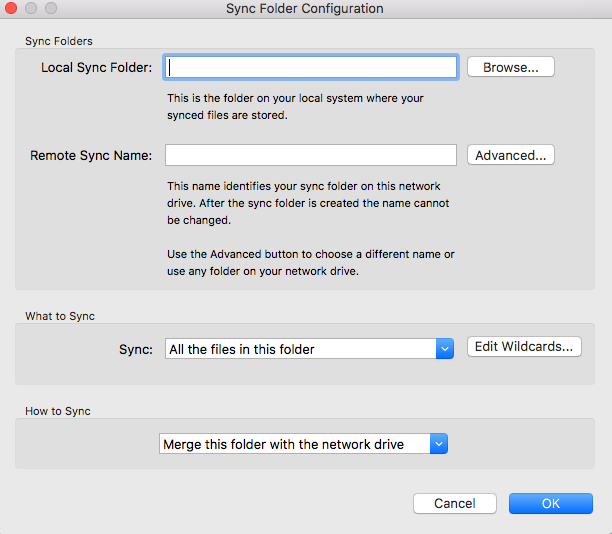
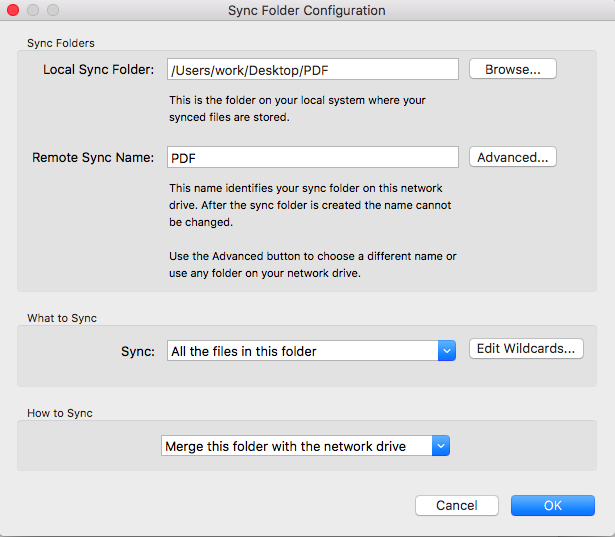
NetworkDrive

diff --git a/src/010_TheBackupVault.rst b/src/010_TheBackupVault.rst
@@ -1,3 +1,88 @@
 ================
 The Backup Vault
 ================
+The Backup Vault compresses and stores your files for recovery in the event of data loss. These files cannot be accessed in full on demand; only through the "Restore Files" section. Data compression allows large amounts of information to be stored for a low cost.
+
+The first backup that is run for the account is the only full backup done for the Backup Vault. Any subsequent backups will only upload changed portions of files or newly added files within the backup set.
+
+To learn more about how the Backup Vault works, see ____
+
+DEFINE BACKUP JOB
+
+Backup Vault
+============
+.. image:: _static/010/b1.png
+
+**Create a new Backup Job:** Name and create new backup jobs here. By default, a job titled "My Backup" will already exist.
+
+**Import a Backup Job:** Import existing backup job configurations here.
+
+**Delete Backup Vault:** Delete the backup vault and all the jobs within it.
+
+Backup Job
+==========
+You can configure the settings for each Backup Job by clicking on its dropdown arrow.
+
+Here, the example Backup Job is named "My Backup".
+
+.. image:: _static/010/b2.png
+
+**Allow this backup job to run:** Temporarily enable/disable a backup job.
+
+**Remove Backup Job:** Remove a backup job. This will not delete the files in online storage, it will only stop updating changed or new files in the folder.
+
+**Export Backup Job Configuration:** Exports Backup Job settings.
+
+Schedule
+--------
+.. image:: _static/010/b3.png
+
+**Automatically backup my files every:** Choose how often and what time to run the backup.
+
+**When the scheduled backup time is missed:** Choose from ASAP and At Next Scheduled Time.
+
+What to Backup
+--------------
+.. image:: _static/010/b4.png
+
+**Add or Change Backup Folders:** Add or change backup folders or files.
+
+**Remove Selected Folder** Removes folder selected above.
+
+.. image:: _static/010/b5.png
+
+Folders
+^^^^^^^
+Select folders to back up. If you can't find the folder you're looking for, click "All Folders".
+
+A black check mark indicates the folder is being backed up.
+
+A grey check mark indicates a sub-folder in the folder is being backed up.
+
+Backup Options
+^^^^^^^^^^^^^^
+**Do not backup this folder:** Disables backup for this folder.
+
+**Backup:** Pick between: all the files in this folder (all files), only certain types of files (by file ending), all files except certain types, or only files I select in this folder.
+
+Check "Backup files in sub-folders" to include the contents of folders include in the selected folders.
+
+Select "Advanced Options" to include or exclude files based on wildcards. You can also change the path where Jungle Disk will save the directory's backups.
+
+Selected Files
+^^^^^^^^^^^^^^
+Select or deselect files in the selected folder to backup.
+
+Backup Options
+--------------
+.. image:: _static/010/b6.png
+
+**Ignore timezone shifts when detecting changed files:** If you have users located in another time zone, checking the option “Ignore timezone shifts when detecting changed files” will ensure that you are not creating and storing unnecessary previous versions.
+
+Backup Retention
+^^^^^^^^^^^^^^^^
+Choose how often to clear out old data. This includes previous versions and deleted files. If unchecked, your old backups will be kept indefinitely. Keeping all your old backups may increase charges.
+
+Backup Reporting
+^^^^^^^^^^^^^^^^
+This feature allows your administrator to view summaries of backup jobs, and any errors that may occur during them, via email, RSS, or on the web. "Report backup summaries and detailed logs" is recommended, as it provides more information in case of a backup error.

diff --git a/src/011_HowDoesTheBackupProcessWork.rst b/src/011_HowDoesTheBackupProcessWork.rst
@@ -6,7 +6,7 @@ Simple Backup
 =============
 Simple backup works in a standard way, but has a unique way of updating itself. When a Simple Backup Job is run, the files identified in the backup are analyzed and their Modified Dates are compared to the Modified Dates of the previous backup. Files that have a more recent Modified Date are treated as “updated”, so they are queued to be uploaded. When one of these files is uploaded, a full copy of the old file is treated as a previous version, which means it then becomes subject to your Retention Policy.
 
-Unlike the Backup Vault, Simple Backup doesn't use data-deduplication. It relies on the file path to determine which files to upload. So, if you move a file from one system to another, it may be uploaded again if the file path changes from one system to the other. It is highly likely that the new system will not have the same directories as the old system. To avoid data from unnecessarily re-‐uploading, the user would need to adjust the file path structure within the “backups” folder on the network drive, and make it match the current system.
+Unlike the Backup Vault, Simple Backup doesn't use data de-duplication. It relies on the file path to determine which files to upload. So, if you move a file from one system to another, it may be uploaded again if the file path changes from one system to the other. It is highly likely that the new system will not have the same directories as the old system. To avoid data from unnecessarily re-‐uploading, the user would need to adjust the file path structure within the “backups” folder on the network drive, and make it match the current system.
 
 Even though the Simple Backup data is visible in Web Access and your Network Drive, you should not make any modifications. This is because modifying the data could produce unwanted results with what is or isn’t backed up.
 

diff --git a/src/006_BackupSolutions.rst b/src/006_BackupSolutions.rst
@@ -20,12 +20,12 @@ Sync folders are intended to be used by a single user and offer the ability to w
 
 Backup Vault
 ============
-The Backup Vault compresses and stores your files. Due to the way these files are packaged, data backed up to the Backup Vault is only available through the software’s Restore Files section. They cannot be viewed through web access when stored in the backup vault. Since the backup schedule is not instant, your information won't be affected by a virus.
+The Backup Vault compresses and stores your files in the event of data loss. Due to the way these files are packaged, data backed up to the Backup Vault is only available through the software’s Restore Files section. They cannot be viewed through web access when stored in the backup vault. Since the backup schedule is not instant, your information won't be affected by a virus.
 
 .. insert comparison chart
 can access complete files online
 safe from viruses
-limit accesss among employees etc
+limit access among employees etc
 can many ppl work on file
 is it editable/view only
 limitations, ex: sync folders is 100k files or 10 gb
@@ -34,7 +34,7 @@ does it automatically update files (net drive yes. simple no.)
 Backup Vault
 
 File Compression
-Data deduplication
+Data de-duplication
 No file size limit
 
 Network Drive

diff --git a/src/015_SyncFolders.rst b/src/015_SyncFolders.rst
@@ -19,23 +19,15 @@ Sync Folder Summary:
 
 Sync Folder Creation
 ====================
-
-.. figure:: _static/015/sf.png
-Windows.
-
-.. figure:: _static/015/sf2.png
-Windows.
-
 .. figure:: _static/015/sf3.png
 Mac.
 
 .. figure:: _static/015/sf4.png
 Mac.
 
-The local sync folder option will set the local folder from the computer that syncs with the network drive. You can either enter a path in manually, or use the Browse option to select the local folder.
+**Local Sync Folder:** The folder where your sync folders are stored locally. You can either enter a path in manually, or use the Browse option to select the local folder.
 
-The Advanced option will allow you to name the sync folder differently than how it may appear locally. You can also
-select the folder to sync up with an existing folder on the network drive.
+**Remote Sync Name:** By default, the name of both folders will match. Click "Advanced..." to change the name, or change a  place to store the folder on the network drive. The name cannot be changed once created. 
 
 What to Sync
 ^^^^^^^^^^^^

diff --git a/src/009_SimpleBackup.rst b/src/009_SimpleBackup.rst
@@ -104,4 +104,8 @@ Previous Versions
 
 **Don't keep previous versions for files over [XX] MB in size:** Deletes previous versions for files over the size limit.
 
-**Keep at most [XX] previous versions of each file (regardless of age):**
+**Keep at most [XX] previous versions of each file (regardless of age):** Retains any amount of versions for each file.
+
+Backup Reporting
+^^^^^^^^^^^^^^^^
+This feature allows your administrator to view summaries of backup jobs, and any errors that may occur during them, via email, RSS, or on the web. "Report backup summaries and detailed logs" is recommended, as it provides more information in case of a backup error.

diff --git a/src/004_HowDoesJDWork.rst b/src/004_HowDoesJDWork.rst
@@ -4,6 +4,8 @@ How Does Jungle Disk Work?
 
 .. RENAME setting up UI or setting up JD, rename the 5 section to setting up acct
 
+make this actually about data de-dup and incremental backup and place below the network drive or put that into in 011howdoesbackupprocesswork
+
 
 The *Jungle Disk client is a two part program.
 It contains the *Jungle Disk agent, which is the service that gets installed and allows processes to run in the background. This agent communicates with your storage location (Rackspace Cloud File or Amazon) and is responsible for uploading and retrieving files when needed.

diff --git a/src/012_ConfiguringBackupJobs.rst b/src/012_ConfiguringBackupJobs.rst
@@ -80,8 +80,5 @@ Configuring Backup Reports
 
   .. image:: _static/012/d9.png
 
-
-
-
 Include configuring backup reports
 https://support.jungledisk.com/hc/en-us/articles/218746157-Configuring-Backup-Reporting-Notifications-Email-RSS-Feeds-

diff --git a/src/002_ListOfFigures.rst b/src/002_ListOfFigures.rst
@@ -5,4 +5,4 @@ Backup Vault
 
 Data De-Duplication
 
-Network Drive figure [make tree] 
+Network Drive figure [make tree of all things inside the network drive - ex simple backup] 

diff --git a/src/017_StoringPrevVersions.rst b/src/017_StoringPrevVersions.rst
@@ -6,4 +6,4 @@ elim
 
 sort into network drive DONE
 backup vault
-legacy backup
+legacy backup/simple backup DONE
